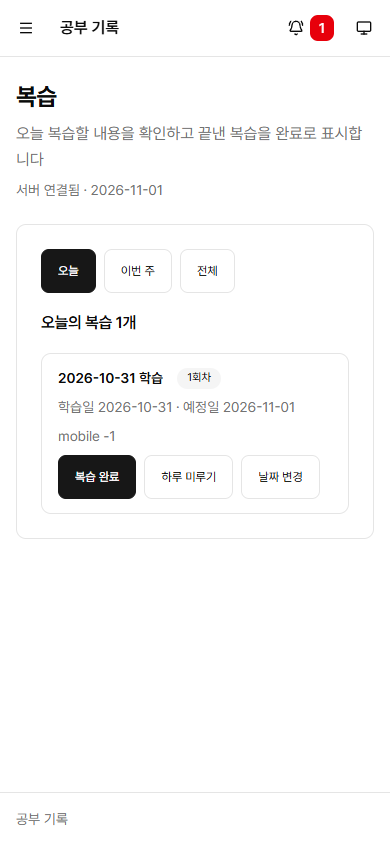
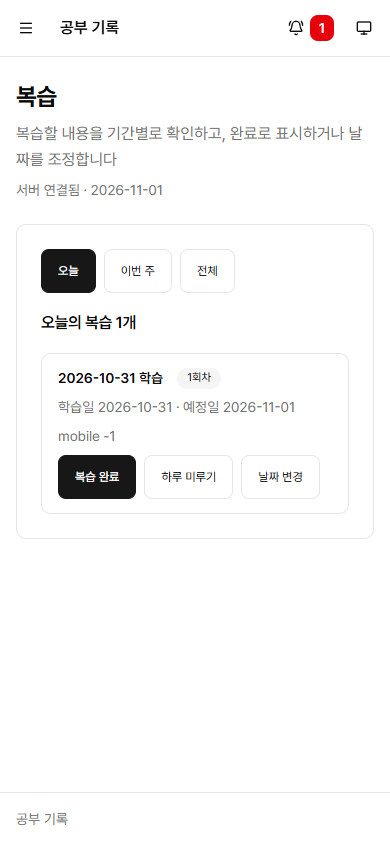
fix: 목록 재시도 동작과 늦은 응답 처리 보완 (#45)
- 왜: 2차 리뷰에서 재시도 후 포커스 유실, 같은 오류의 무신호, 늦은 조회가 최신 목록을 덮는 경합이 나옴
- 변경: 재시도 때 오류를 지우고 포커스를 돌리며, 가장 최근 조회의 응답만 사용

Changed region(s): [[0.0308, 0.1232, 0.9231, 0.2156]]

diff --git a/frontend/src/reviews.tsx b/frontend/src/reviews.tsx
@@ -1,4 +1,4 @@
-import React, { useEffect, useState } from 'react';
+import React, { useEffect, useRef, useState } from 'react';
 
 import { type RequestError, requestJson } from './api';
 import { useBusy } from './busy';
@@ -18,6 +18,7 @@ const dateInputId = 'review-due-date';
 const completeId = (review: Review) => `review-complete-${review.id}`;
 const snoozeId = (review: Review) => `review-snooze-${review.id}`;
 const editId = (review: Review) => `review-edit-${review.id}`;
+const rangeId = (range: ReviewRange) => `review-range-${range}`;
 const listPath = (range: ReviewRange) => `/api/reviews/${range}`;
 
 // Reviews (#43, #45): rounds not yet completed, up to today, this week or all of them. Overdue ones
@@ -35,21 +36,25 @@ export function Reviews({ onChange }: { onChange?: () => void }) {
   // The element to focus once the change is done and the controls are enabled again.
   const [wantFocus, setWantFocus] = useState<string>();
 
+  // Only the newest load counts, so a slower, older answer never brings back a review just changed.
+  const newestLoad = useRef(0);
+  const load = useRef(async (target: ReviewRange) => {
+    const request = ++newestLoad.current;
+    try {
+      const data = await requestJson<Listed>(listPath(target));
+      if (request !== newestLoad.current) return;
+      setLoaded({ ...data, range: target });
+      setLoadError(undefined);
+    } catch (failure) {
+      if (request !== newestLoad.current) return;
+      // A failure keeps the list on screen and reports that it could not be refreshed.
+      setLoadError({ range: target, message: (failure as RequestError).message });
+    }
+  }).current;
+
   useEffect(() => {
-    let current = true;
-    requestJson<Listed>(listPath(range))
-      .then((data) => {
-        if (!current) return;
-        setLoaded({ ...data, range });
-        setLoadError(undefined);
-      })
-      .catch((error: RequestError) => {
-        if (current) setLoadError({ range, message: error.message });
-      });
-    return () => {
-      current = false;
-    };
-  }, [range]);
+    void load(range);
+  }, [load, range]);
 
   useEffect(() => {
     if (!wantFocus || busy) return;
@@ -61,16 +66,6 @@ export function Reviews({ onChange }: { onChange?: () => void }) {
   const shown = loaded?.range === range ? loaded : undefined;
   const error = loadError?.range === range ? loadError.message : undefined;
   const { heading, empty } = reviewRanges[range];
-
-  // A failure keeps the list on screen and reports that it could not be refreshed.
-  const reload = async () => {
-    try {
-      setLoaded({ ...(await requestJson<Listed>(listPath(range))), range });
-      setLoadError(undefined);
-    } catch (failure) {
-      setLoadError({ range, message: (failure as RequestError).message });
-    }
-  };
 
   // Runs one change, then reloads the list and has the badge count again. `done` is where focus
   // goes after it worked and `failed` after a failure that leaves the review in place. A 404 or
@@ -89,10 +84,21 @@ export function Reviews({ onChange }: { onChange?: () => void }) {
       if (gone) setEditor(undefined);
       setWantFocus(gone ? headingId : failed);
     } finally {
-      await reload();
+      await load(range);
       end();
       onChange?.();
     }
+  };
+
+  // Loads a failed list again. The old error goes first, so the same one coming back is announced
+  // again, and an earlier change's error goes unless a date form it belongs to is still open.
+  const retry = async () => {
+    if (!begin()) return;
+    setLoadError(undefined);
+    if (!editor) setNotice(undefined);
+    setWantFocus(rangeId(range));
+    await load(range);
+    end();
   };
 
   const complete = (review: Review) =>
@@ -146,7 +152,7 @@ export function Reviews({ onChange }: { onChange?: () => void }) {
   const pickRange = (next: ReviewRange) => {
     if (next === range) {
       // The range already shown: only a failed list has anything to gain, by trying again.
-      if (error && begin()) void reload().finally(end);
+      if (error) void retry();
       return;
     }
     setRange(next);
@@ -168,6 +174,7 @@ export function Reviews({ onChange }: { onChange?: () => void }) {
             <button
               key={key}
               type="button"
+              id={rangeId(key)}
               className={key === range ? 'primary' : 'secondary'}
               aria-pressed={key === range}
               disabled={busy}

diff --git a/frontend/src/reviews.test.tsx b/frontend/src/reviews.test.tsx
@@ -461,6 +461,92 @@ test('the range already shown tries again after a failed list', async () => {
   expect(screen.queryByRole('alert')).toBeNull();
 });
 
+test('a retry unlocks the buttons, returns focus and shows that it is loading', async () => {
+  let answer = (_value: Response) => {};
+  let calls = 0;
+  vi.stubGlobal(
+    'fetch',
+    vi.fn(() => {
+      calls += 1;
+      if (calls === 1)
+        return Promise.resolve(
+          new Response(JSON.stringify({ error: '목록 오류' }), { status: 500 }),
+        );
+      return new Promise<Response>((resolve) => (answer = resolve));
+    }),
+  );
+  render(<Reviews />);
+  await screen.findByRole('alert');
+  const button = screen.getByRole('button', { name: '오늘' });
+  fireEvent.click(button);
+  // The old error is gone while trying, so the same error coming back is announced again.
+  expect(await screen.findByText('불러오는 중…')).toBeInTheDocument();
+  expect(screen.queryByRole('alert')).toBeNull();
+  expect(button).toBeDisabled();
+  answer(new Response(JSON.stringify({ error: '목록 오류' }), { status: 500 }));
+  expect(await screen.findByRole('alert')).toHaveTextContent('목록 오류');
+  await waitFor(() => expect(button).toBeEnabled());
+  await waitFor(() => expect(document.activeElement).toBe(button));
+});
+
+test('a retry that works clears the error of the change before it', async () => {
+  let failing = true;
+  let fetchedOnce = false;
+  vi.stubGlobal(
+    'fetch',
+    vi.fn((_url: string, init?: { method?: string }) => {
+      if (init?.method === 'POST')
+        return Promise.resolve(
+          new Response(JSON.stringify({ error: '변경 오류' }), { status: 500 }),
+        );
+      if (failing && fetchedOnce)
+        return Promise.resolve(
+          new Response(JSON.stringify({ error: '목록 오류' }), { status: 500 }),
+        );
+      fetchedOnce = true;
+      return Promise.resolve(new Response(JSON.stringify({ today, reviews: [review()] })));
+    }),
+  );
+  render(<Reviews />);
+  fireEvent.click(await screen.findByRole('button', { name: /하루 미루기/ }));
+  await screen.findByText('변경 오류');
+  await screen.findByText(/목록 오류/);
+  await waitFor(() => expect(screen.getByRole('button', { name: '오늘' })).toBeEnabled());
+  failing = false;
+  fireEvent.click(screen.getByRole('button', { name: '오늘' }));
+  await waitFor(() => expect(screen.queryByRole('alert')).toBeNull());
+  expect(screen.getByRole('button', { name: /하루 미루기/ })).toBeInTheDocument();
+});
+
+test('a slow older answer does not bring back a review just completed', async () => {
+  let answerOld = (_value: Response) => {};
+  let todayLists = 0;
+  const list = (reviews: Review[]) =>
+    Promise.resolve(new Response(JSON.stringify({ today, reviews })));
+  vi.stubGlobal(
+    'fetch',
+    vi.fn((url: string, init?: { method?: string }) => {
+      if (init?.method === 'POST')
+        return Promise.resolve(new Response(JSON.stringify({ next: null })));
+      // The week's list never answers, so the page still shows today's when today is picked again.
+      if (url.endsWith('/week')) return new Promise<Response>(() => {});
+      todayLists += 1;
+      if (todayLists === 1) return list([review()]);
+      if (todayLists === 2) return new Promise<Response>((resolve) => (answerOld = resolve));
+      return list([]);
+    }),
+  );
+  render(<Reviews />);
+  await screen.findByRole('button', { name: /복습 완료/ });
+  fireEvent.click(screen.getByRole('button', { name: '이번 주' }));
+  fireEvent.click(screen.getByRole('button', { name: '오늘' }));
+  fireEvent.click(screen.getByRole('button', { name: /복습 완료/ }));
+  await screen.findByText('오늘 복습할 내용이 없습니다');
+  answerOld(new Response(JSON.stringify({ today, reviews: [review()] })));
+  await new Promise((resolve) => setTimeout(resolve));
+  expect(screen.getByText('오늘 복습할 내용이 없습니다')).toBeInTheDocument();
+});
+
 test('changing another review closes the date form being typed', async () => {
   const lists = {
     today: [review({ id: 1, studyDate: '2026-10-29' }), review({ id: 2, studyDate: '2026-10-30' })],

diff --git a/docs/changes/45-review-adjust.md b/docs/changes/45-review-adjust.md
@@ -28,8 +28,9 @@
 ## 테스트
 
 - `backend/test/reviews.test.ts`: 미루기 날짜, 이번 주의 끝.
-- `backend/test/review-adjust.integration.test.ts`: 범위별 목록, 미루기(지난 회차, 앞날 회차), 배지 수 감소, 미룬 뒤 완료의 다음 회차, 양방향 날짜 변경, 잘못 완료한 뒤 다음 회차 수정, 완료한 회차 거부, 404, 400.
-- `frontend/src/reviews.test.tsx`: 범위 전환, 늦은 응답 무시, 범위별 오류, 미루기, 날짜 변경, 취소, 거부된 날짜, 다른 곳에서 완료된 경우, 포커스.
+- `backend/test/review-adjust.integration.test.ts`: 범위별 목록, 미루기(지난 회차, 앞날 회차), 미룬 뒤 완료의 다음 회차, 양방향 날짜 변경, 잘못 완료한 뒤 다음 회차 수정, 완료한 회차 거부, 404, 400.
+- `backend/test/review-count.integration.test.ts`: 미루면 배지 수가 줄고, 오늘로 옮기면 다시 는다.
+- `frontend/src/reviews.test.tsx`: 범위 전환, 늦은 응답 무시, 범위별 오류, 미루기, 날짜 변경, 취소, 거부된 날짜, 다른 곳에서 완료된 경우, 재시도, 포커스.
 
 ## 리뷰
 
@@ -40,9 +41,15 @@
 - 범위 변경과 다른 복습 변경 시 폼 닫기, 처리 중 범위 버튼 잠금의 테스트를 더했다.
 - 복습 화면의 설명 문구를 새 범위에 맞췄다.
 
+2차 리뷰에서 다음을 이 PR에서 고쳤다. 리뷰는 최대 2회이므로 3차 리뷰는 하지 않았다.
+
+- 목록 재시도 뒤 포커스가 사라지고, 같은 오류가 다시 나면 아무 신호가 없었으며, 앞선 변경의 오류가 남았다. 재시도 시작 때 오류를 지우고, 날짜 폼이 열려 있지 않으면 앞선 오류도 지우며, 포커스를 범위 버튼으로 돌린다.
+- 범위를 오갈 때 진행 중이던 조회가 완료 뒤 목록을 덮어쓸 수 있었다. 가장 최근 조회의 응답만 쓴다.
+- 재시도의 잠금 해제 테스트와 변경 기록의 테스트 위치를 고쳤다.
+
 ## 검증
 
-`TEST_DATABASE_URL`을 설정한 `npm run check`가 통과했다. 백엔드 310건, 프런트 97건, 스킬 4건이 통과했다. 건너뜀은 프런트 2건으로, 중앙 표준에서 온 다크 전용 앱 테스트이다. `npm run standards:check`도 통과했다.
+`TEST_DATABASE_URL`을 설정한 `npm run check`가 통과했다. 백엔드 310건, 프런트 100건, 스킬 4건이 통과했다. 건너뜀은 프런트 2건으로, 중앙 표준에서 온 다크 전용 앱 테스트이다. `npm run standards:check`도 통과했다.
 
 ## 브라우저 확인
 
@@ -52,7 +59,7 @@
 - 하루 미루면 새 예정일이 안내되고, 오늘 목록과 상단 배지에서 빠지며, 포커스가 제목으로 옮겨 간다.
 - 날짜를 바꾸면 입력 칸에 포커스가 가고, 저장 후 안내가 나오며, 오늘로 옮기면 배지가 돌아온다.
 
-이번 주의 경계 날짜는 통합 테스트(수요일 기준)로 확인했다. 브라우저 확인과 캡처는 1차 리뷰 보완 전 화면이다. 보완은 설명 문구와 이미 선택된 범위 버튼의 동작이고, 테스트로 확인했다.
+이번 주의 경계 날짜는 통합 테스트(수요일 기준)로 확인했다. 브라우저 확인과 캡처는 2차 리뷰 보완까지 반영한 최종 코드 기준이다. 범위 버튼 재시도는 테스트로만 확인했다.
 
 ![PC](assets/45-pc-1440x900.png)
 
